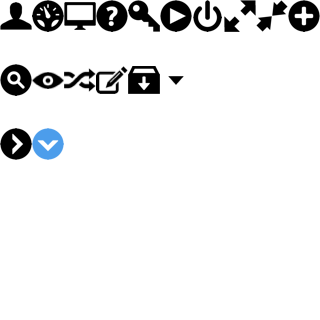
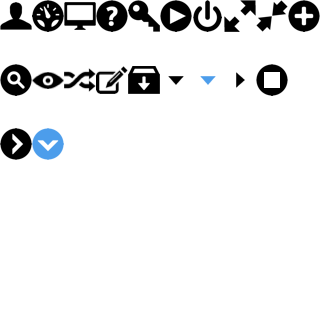
show/hide demo button fix

Changed region(s): [[0.7188, 0.1875, 0.9062, 0.3125], [0.625, 0.2188, 0.6875, 0.2812]]

diff --git a/app/assets/stylesheets/_redesign-footer.scss b/app/assets/stylesheets/_redesign-footer.scss
@@ -16,8 +16,15 @@
       text-align: left;
       a {
         line-height: 40px;
-        color:$headerTitle;
+        color: $link;
         font-size: 12px;
+        text-decoration: underline;
+        &:hover {
+          text-decoration: none;
+        }
+        i {
+          margin: 10px 4px 0 0;
+        }
       }
     }
   }

diff --git a/app/assets/stylesheets/_icons.scss b/app/assets/stylesheets/_icons.scss
@@ -81,6 +81,14 @@
     background-position:-80px -16px;
   }
 }
+.grcicon-demo-stop {
+  @include new-icons();
+  background-position:-128px -32px;
+}
+.grcicon-demo-stop-white {
+  @include new-icons();
+  background-position:-128px -48px;
+}
 .grcicon-desktop {
   @include new-icons();
   background-position:-32px -16px;
